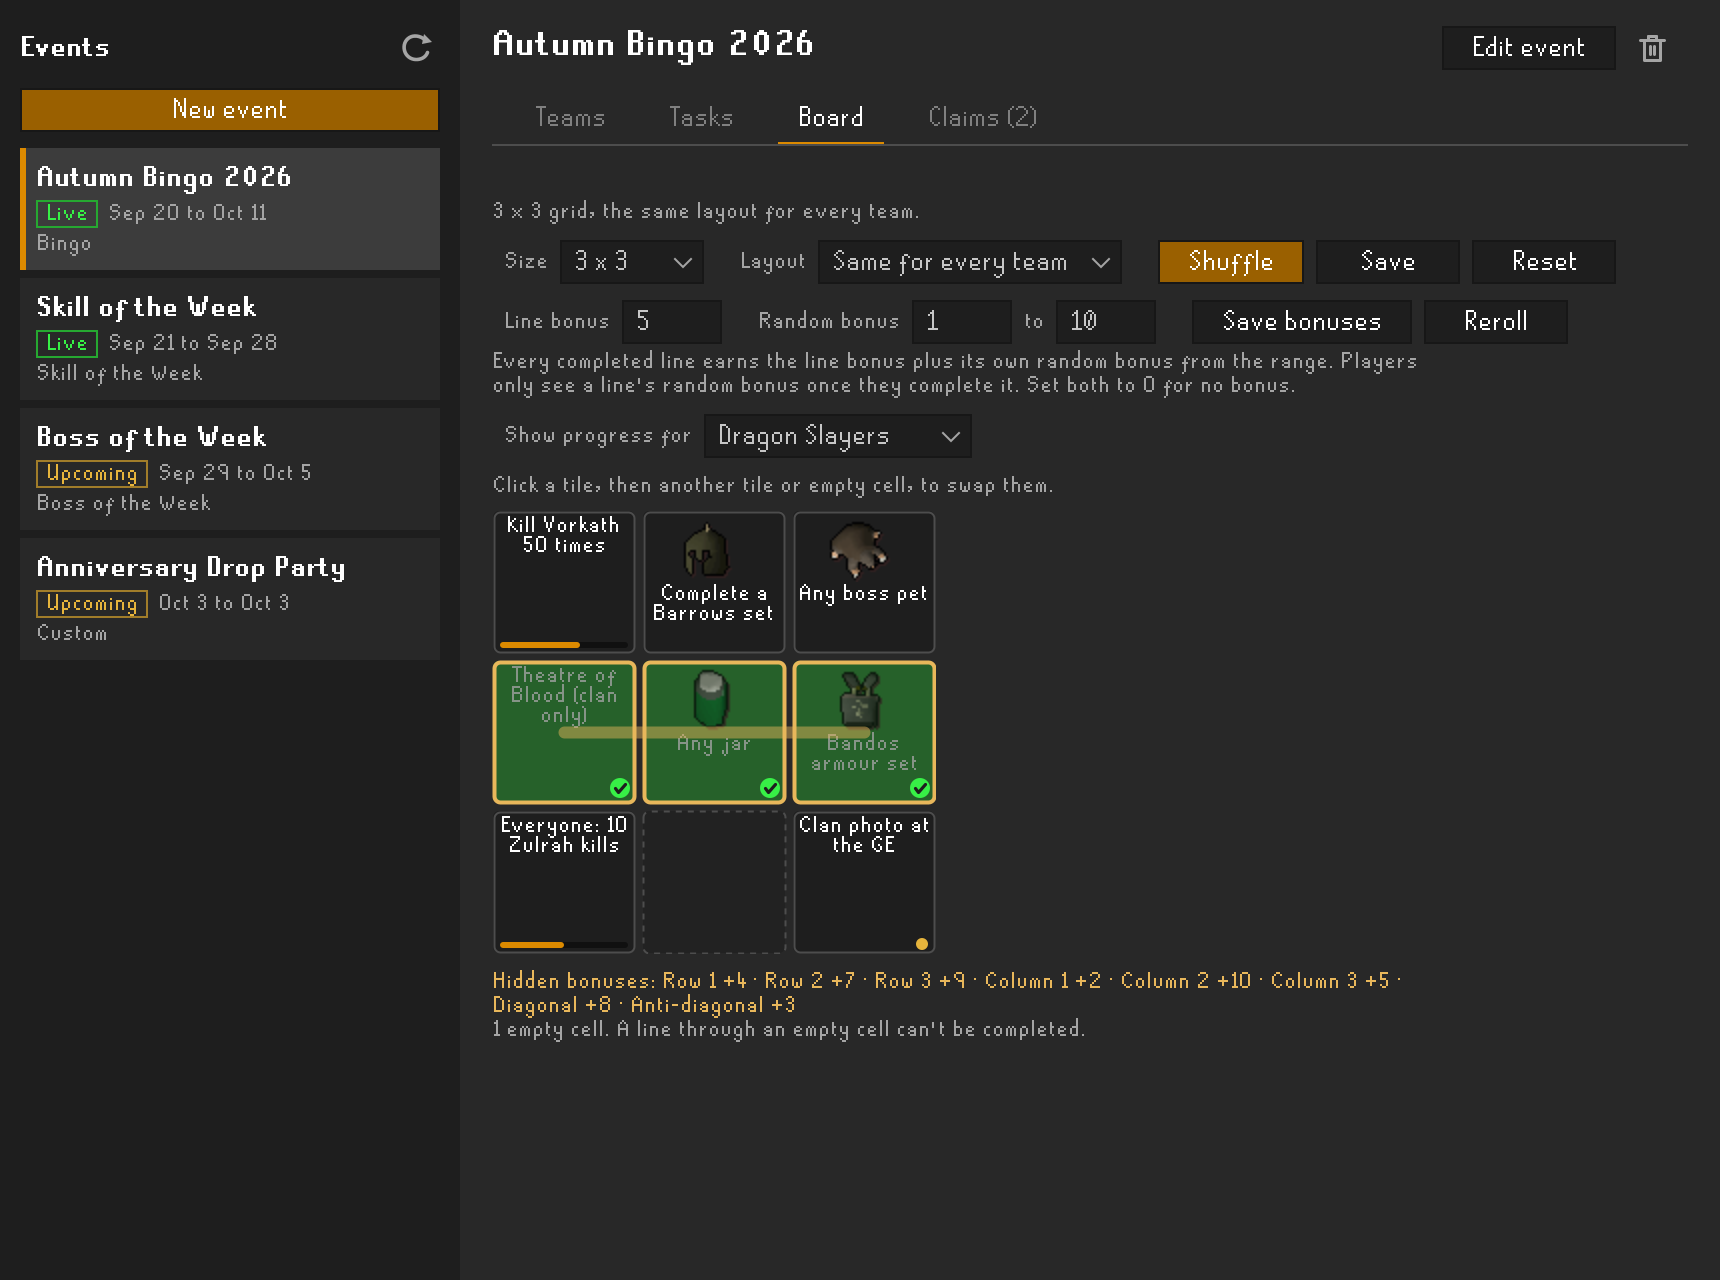
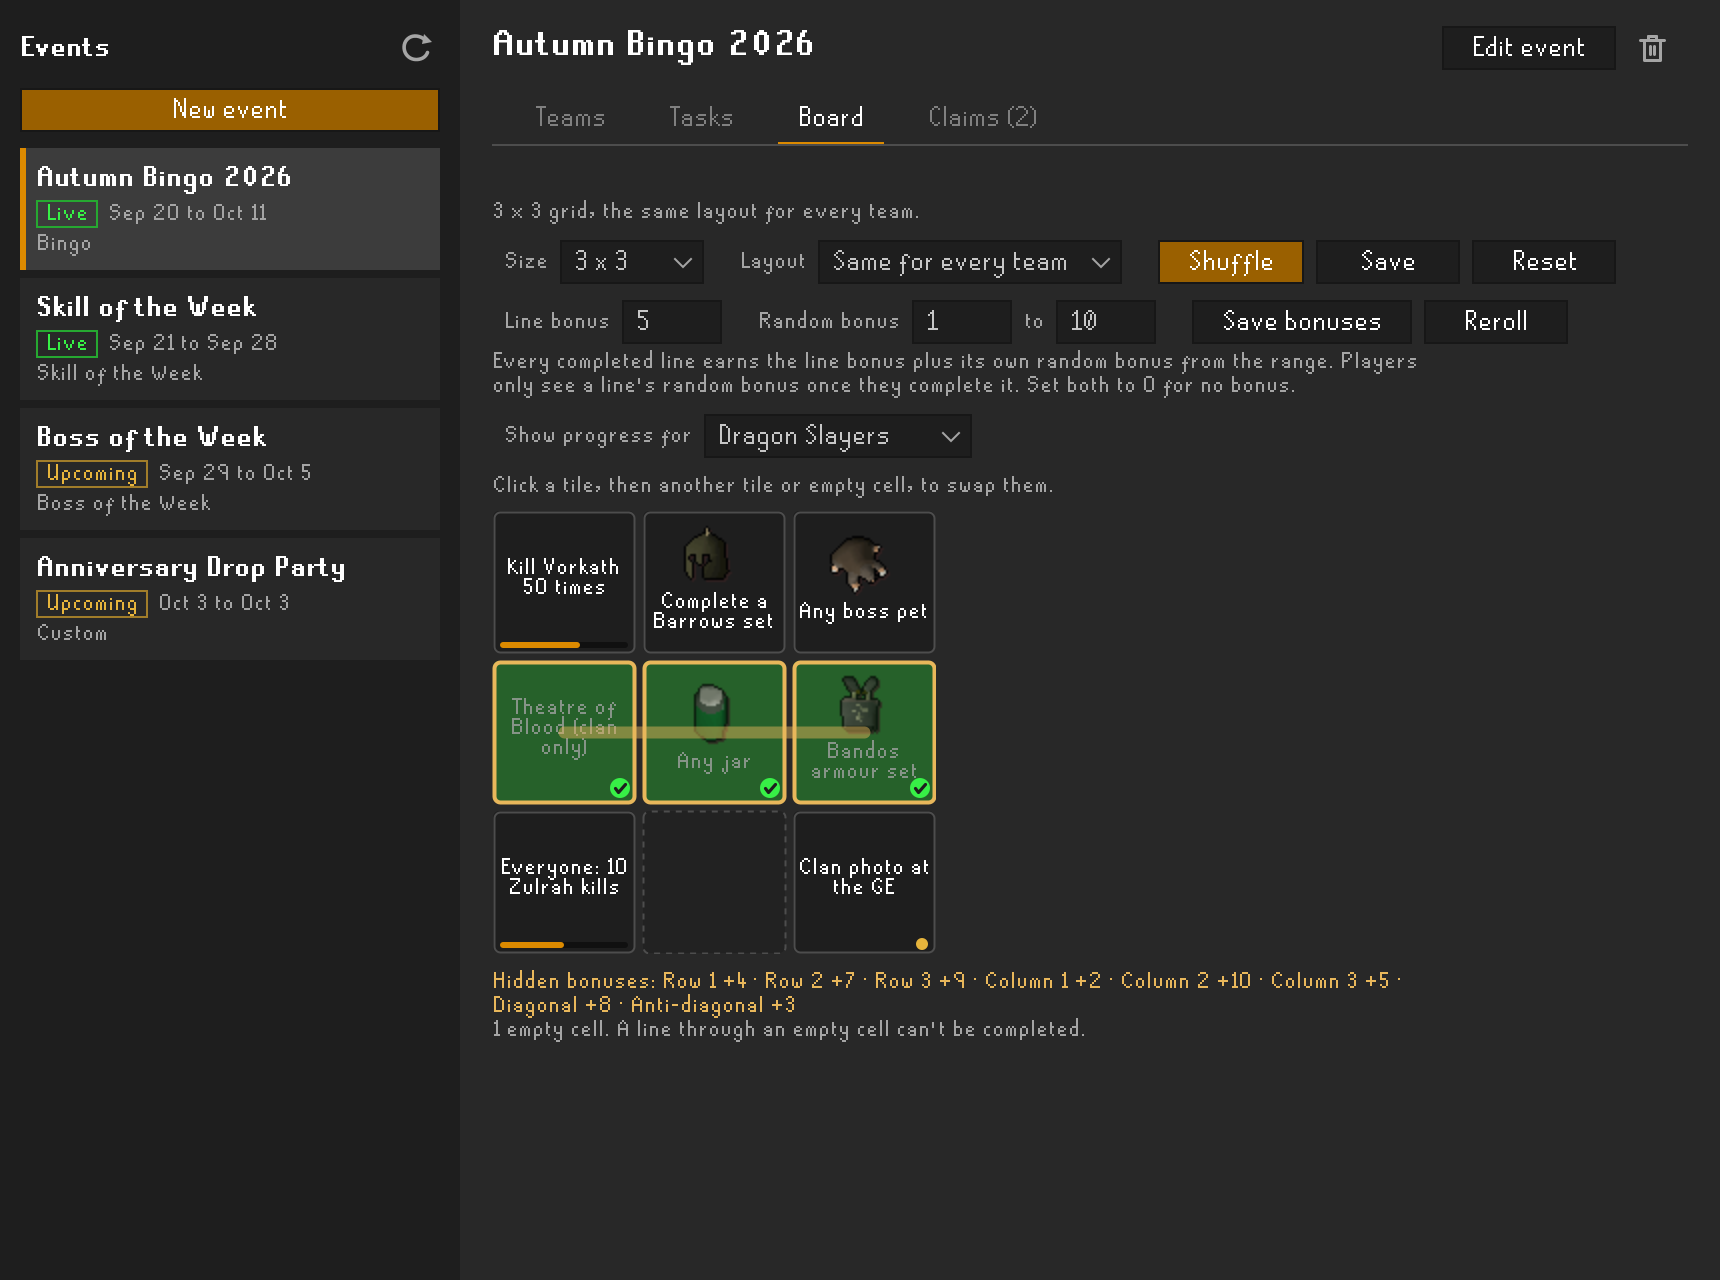
fix: center bingo tile content

diff --git a/src/main/java/com/tsghub/TsgHubBoardGrid.java b/src/main/java/com/tsghub/TsgHubBoardGrid.java
@@ -440,22 +440,46 @@ final class TsgHubBoardGrid extends JComponent
 		Graphics2D content = (Graphics2D) g.create();
 		content.clip(shape);
 		if (tile.complete) content.setComposite(AlphaComposite.getInstance(AlphaComposite.SRC_OVER, 0.75f));
-		int textTop = y + 3;
-		if (tile.image != null)
+		int areaTop = y + 3;
+		int areaBottom = y + cell - 7;
+		String title = TsgHubUi.str(tile.task, "title");
+		content.setFont(font);
+		FontMetrics metrics = content.getFontMetrics();
+		int lineHeight = metrics.getHeight() - 2;
+		int textInset = 3;
+		if (tile.image != null && !names)
 		{
-			int max = Math.min(names ? cell / 2 : cell - 10, Math.max(tile.image.getWidth(), 32));
+			int max = Math.min(cell - 10, Math.max(tile.image.getWidth(), 32));
 			double scale = Math.min(max / (double) tile.image.getWidth(), max / (double) tile.image.getHeight());
 			int w = (int) Math.round(tile.image.getWidth() * scale);
 			int h = (int) Math.round(tile.image.getHeight() * scale);
-			int iy = names ? y + 4 : y + (cell - h) / 2 - 1;
-			content.drawImage(tile.image, x + (cell - w) / 2, iy, w, h, null);
-			textTop = iy + h + 1;
+			content.drawImage(tile.image, x + (cell - w) / 2, y + (cell - h) / 2 - 1, w, h, null);
 		}
-		if (tile.image == null || names)
+		else
 		{
-			content.setFont(font);
+			int w = 0;
+			int h = 0;
+			if (tile.image != null)
+			{
+				int max = Math.min(cell / 2, Math.max(tile.image.getWidth(), 32));
+				double scale = Math.min(max / (double) tile.image.getWidth(), max / (double) tile.image.getHeight());
+				w = (int) Math.round(tile.image.getWidth() * scale);
+				h = (int) Math.round(tile.image.getHeight() * scale);
+			}
+			int gap = h > 0 ? 2 : 0;
+			int maxLines = Math.max(1, (areaBottom - areaTop - h - gap - metrics.getAscent()) / lineHeight + 1);
+			List<String> lines = wrapLines(metrics, title, cell - textInset * 2, maxLines);
+			int textHeight = lines.isEmpty() ? 0 : (lines.size() - 1) * lineHeight + metrics.getAscent();
+			int block = h + gap + textHeight;
+			int top = areaTop + Math.max(0, (areaBottom - areaTop - block) / 2);
+			if (h > 0) content.drawImage(tile.image, x + (cell - w) / 2, top, w, h, null);
 			content.setColor(tile.complete ? TsgHubUi.MUTED : TsgHubUi.TEXT);
-			drawWrapped(content, TsgHubUi.str(tile.task, "title"), x + 3, textTop, cell - 6, y + cell - 5);
+			int baseline = top + h + gap + metrics.getAscent();
+			for (String line : lines)
+			{
+				content.drawString(line, x + (cell - metrics.stringWidth(line)) / 2, baseline);
+				baseline += lineHeight;
+			}
 		}
 		content.dispose();
 
@@ -546,39 +570,33 @@ final class TsgHubBoardGrid extends JComponent
 		label.dispose();
 	}
 
-	static void drawWrapped(Graphics2D g, String text, int x, int top, int width, int bottom)
+	static List<String> wrapLines(FontMetrics metrics, String text, int width, int maxLines)
 	{
-		FontMetrics metrics = g.getFontMetrics();
-		int lineHeight = metrics.getHeight() - 2;
-		int maxLines = Math.max(1, (bottom - top) / lineHeight);
 		List<String> lines = new ArrayList<>();
 		StringBuilder line = new StringBuilder();
-		for (String word : text.split("\\s+"))
+		for (String word : text.trim().split("\\s+"))
 		{
 			String next = line.length() == 0 ? word : line + " " + word;
 			if (metrics.stringWidth(next) <= width || line.length() == 0)
 			{
 				line.setLength(0);
 				line.append(next);
+				continue;
 			}
-			else
-			{
-				lines.add(line.toString());
-				line.setLength(0);
-				line.append(word);
-			}
+			lines.add(line.toString());
+			line.setLength(0);
+			line.append(word);
 		}
 		if (line.length() > 0) lines.add(line.toString());
-		int shown = Math.min(lines.size(), maxLines);
-		int y = top + metrics.getAscent() - 1;
-		for (int i = 0; i < shown; i++)
+		boolean cut = lines.size() > maxLines;
+		List<String> shown = new ArrayList<>(lines.subList(0, Math.min(lines.size(), maxLines)));
+		for (int i = 0; i < shown.size(); i++)
 		{
-			String part = lines.get(i);
-			if (i == shown - 1 && shown < lines.size()) part = part + "…";
+			String part = shown.get(i) + (cut && i == shown.size() - 1 ? "…" : "");
 			while (metrics.stringWidth(part) > width && part.length() > 1) part = part.substring(0, part.length() - 2) + "…";
-			g.drawString(part, x + Math.max(0, (width - metrics.stringWidth(part)) / 2), y);
-			y += lineHeight;
+			shown.set(i, part);
 		}
+		return shown;
 	}
 
 	private static Color blend(Color a, Color b, double amount)

diff --git a/src/main/java/com/tsghub/TsgHubRevealOverlay.java b/src/main/java/com/tsghub/TsgHubRevealOverlay.java
@@ -16,7 +16,6 @@ import java.awt.geom.Ellipse2D;
 import java.awt.geom.Path2D;
 import java.awt.geom.RoundRectangle2D;
 import java.awt.image.BufferedImage;
-import java.util.ArrayList;
 import java.util.List;
 import java.util.Queue;
 import java.util.concurrent.ConcurrentLinkedQueue;
@@ -285,7 +284,7 @@ final class TsgHubRevealOverlay extends Overlay implements MouseListener
 		int textTop = 172;
 		if (!reveal.line)
 		{
-			List<String> lines = wrap(g.getFontMetrics(titleFont), reveal.title, CARD_W - 28, 2);
+			List<String> lines = TsgHubBoardGrid.wrapLines(g.getFontMetrics(titleFont), reveal.title, CARD_W - 28, 2);
 			for (String line : lines)
 			{
 				centered(g, line, titleFont, Color.WHITE, CARD_W / 2.0, textTop + 14);
@@ -357,32 +356,6 @@ final class TsgHubRevealOverlay extends Overlay implements MouseListener
 		g.drawString(text, x + 1, y + 1);
 		g.setColor(color);
 		g.drawString(text, x, y);
-	}
-
-	static List<String> wrap(FontMetrics metrics, String text, int width, int maxLines)
-	{
-		List<String> lines = new ArrayList<>();
-		StringBuilder line = new StringBuilder();
-		for (String word : text.trim().split("\\s+"))
-		{
-			String next = line.length() == 0 ? word : line + " " + word;
-			if (metrics.stringWidth(next) <= width || line.length() == 0)
-			{
-				line.setLength(0);
-				line.append(next);
-				continue;
-			}
-			lines.add(line.toString());
-			line.setLength(0);
-			line.append(word);
-		}
-		if (line.length() > 0) lines.add(line.toString());
-		if (lines.size() <= maxLines) return lines;
-		List<String> shown = new ArrayList<>(lines.subList(0, maxLines));
-		String last = shown.get(maxLines - 1) + "…";
-		while (metrics.stringWidth(last) > width && last.length() > 2) last = last.substring(0, last.length() - 2) + "…";
-		shown.set(maxLines - 1, last);
-		return shown;
 	}
 
 	private static Color alpha(Color color, int alpha)
